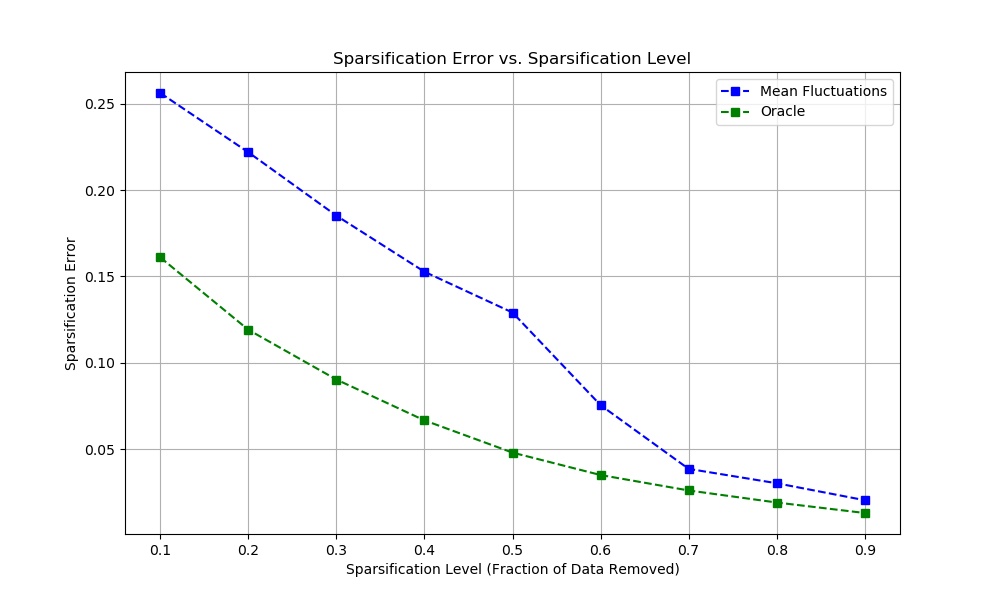
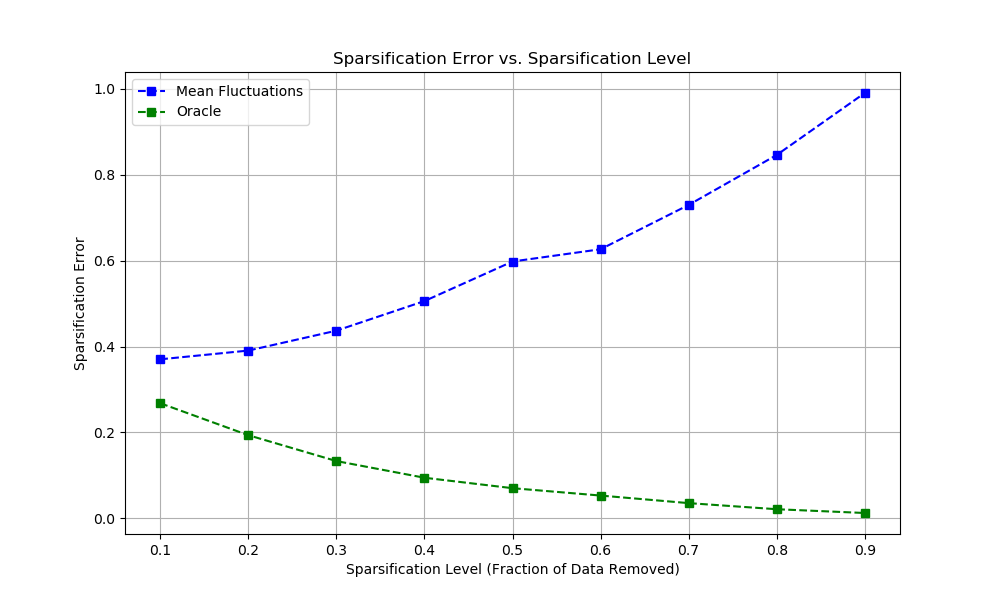
update uncertainty particle

diff --git a/eval/eval_ause.py b/eval/eval_ause.py
@@ -1,0 +1,277 @@
+# This code is based on https://github.com/openai/guided-diffusion
+"""
+Generate a large batch of image samples from a model and save them as a large
+numpy array. This can be used to produce samples for FID evaluation.
+"""
+from utils.fixseed import fixseed
+import os
+import numpy as np
+import torch
+from utils.parser_util import generate_args
+from utils.model_util import create_model_and_diffusion, load_model_wo_clip
+from utils import dist_util
+from model.cfg_sampler import ClassifierFreeSampleModel
+from data_loaders.get_data import get_dataset_loader, get_collate_fn
+from data_loaders.humanml.scripts.motion_process import recover_from_ric, compute_uncertainty_factor
+import data_loaders.humanml.utils.paramUtil as paramUtil
+from data_loaders.humanml.utils.plot_script import plot_3d_motion
+from data_loaders.humanml.utils.plot_script import plot_3d_motion_with_gt
+import shutil
+from data_loaders.tensors import collate
+from tqdm import tqdm
+from diffusion.losses import calculate_ause, discretized_gaussian_log_likelihood, calculate_ause2
+from diffusion.nn import mean_flat, sum_flat
+import matplotlib.pyplot as plt
+
+
+def main():
+    args = generate_args()
+    print(f'Args: %s' % args)
+    fixseed(args.seed)
+    args.learning_var = True
+    out_path = args.output_dir
+    name = os.path.basename(os.path.dirname(args.model_path))
+    niter = os.path.basename(args.model_path).replace('model', '').replace('.pt', '')
+    max_frames = 196 if args.dataset in ['kit', 'humanml'] else 60
+    fps = 12.5 if args.dataset == 'kit' else 20
+    n_frames = min(max_frames, int(args.motion_length*fps))
+    is_using_data = not any([args.input_text, args.text_prompt, args.action_file, args.action_name])
+    dist_util.setup_dist(args.device)
+    if out_path == '':
+        out_path = os.path.join(os.path.dirname(args.model_path),
+                                'samples_{}_{}_seed{}'.format(name, niter, args.seed))
+        if args.text_prompt != '':
+            out_path += '_' + args.text_prompt.replace(' ', '_').replace('.', '')
+        elif args.input_text != '':
+            out_path += '_' + os.path.basename(args.input_text).replace('.txt', '').replace(' ', '_').replace('.', '')
+
+    print('Loading dataset...')
+    data = get_dataset_loader(name=args.dataset,
+                              batch_size=args.batch_size,
+                              num_frames=max_frames,
+                              split='test',
+                            #   hml_mode='train') # in train mode, you get both text and motion.
+                              hml_mode='eval')  
+
+    total_samples = len(data.dataset)
+    # print(total_samples) #4646
+
+
+    # nb_samples_longer_than_three_seconds = 4328
+    nb_samples_longer_than_three_seconds = 4288
+    # nb_samples_longer_than_three_seconds = 320
+    start_index = total_samples - nb_samples_longer_than_three_seconds
+    subset_indices = list(range(start_index, total_samples))
+    subset_dataset = torch.utils.data.Subset(data.dataset, subset_indices)
+    subset_data_loader = torch.utils.data.DataLoader(subset_dataset, 
+                                                    batch_size=args.batch_size, 
+                                                    shuffle=False, 
+                                                    num_workers=8, 
+                                                    collate_fn=get_collate_fn(args.dataset, 'eval'))
+
+    total_batches = len(subset_data_loader.dataset)
+    print("Creating model and diffusion...")
+    model, diffusion = create_model_and_diffusion(args, data)
+
+    print(f"Loading checkpoints from [{args.model_path}]...")
+    state_dict = torch.load(args.model_path, map_location='cpu')
+    load_model_wo_clip(model, state_dict)
+
+    if args.guidance_param != 1:
+        model = ClassifierFreeSampleModel(model)   # wrapping model with the classifier-free sampler
+    model.to(dist_util.dev())
+    model.eval()  # disable random masking
+
+    all_motions = []
+    all_variances = []
+    all_mean_fluctuations = []
+    all_lengths = []
+    all_text = []
+    per_joint_errors_all = []
+    uncertainty_particle_ause_all = []
+
+    start_idx = args.emb_motion_len
+
+    times_ms = [0, 0.5, 1, 1.5, 2, 2.45, 2.95, 3.45, 3.95, 4.45, 4.95, 5.45, 5.95, 6.45, 6.95, 7.45, 7.95]  # in seconds
+    frame_indices = [int(20 * t) for t in times_ms] #[0, 10, 20, 30, 40, 49, 50, 60, 70, 80, 90, 100, 110, 120, 130, 140, 150, 160]
+    mpjpe_specific_times = [[] for _ in times_ms]  # List to store MPJPE at specific times
+
+    for idx, batch in enumerate(tqdm(subset_data_loader, desc="Sampling batches")):
+        # print(f'### Sampling from batch {idx}/{total_batches}')
+        input_motions, model_kwargs = batch
+        input_motions = input_motions.to(dist_util.dev())
+        # print(model_kwargs['y']['text'])
+        # raise SystemExit
+
+        ### For Motion Editing
+        # model_kwargs['y']['inpainted_motion'] = input_motions # [bs, njoints, 1, seqlen]
+        # model_kwargs['y']['inpainting_mask'] = torch.ones_like(input_motions, dtype=torch.bool,
+        #                                                         device=input_motions.device)  # True means use gt motion
+        # for i, length in enumerate(model_kwargs['y']['lengths'].cpu().numpy()):
+        #     model_kwargs['y']['inpainting_mask'][i, :, :, 50:] = False  # do inpainting in those frames
+        # ################################
+
+        # add CFG scale to batch
+        if args.guidance_param != 1:
+            model_kwargs['y']['scale'] = torch.ones(args.batch_size, device=dist_util.dev()) * args.guidance_param
+        model_kwargs['y']['motion_embed'] = input_motions
+        model_kwargs['y']['motion_embed_mask'] = torch.ones_like(input_motions, dtype=torch.bool, device=input_motions.device)
+        model_kwargs['y']['motion_embed_mask'][:, :, :, start_idx:] = False
+        sample_fn = diffusion.p_sample_loop
+
+        for rep_i in range(args.num_repetitions):
+            # print(f'### Sampling [repetitions #{rep_i}]')
+            if args.learning_var:
+                sample, log_variance, mean_fluctuations = sample_fn(
+                    model,
+                    (args.batch_size, model.njoints, model.nfeats, max_frames),
+                    clip_denoised=False,
+                    model_kwargs=model_kwargs,
+                    skip_timesteps=0,  # 0 is the default value - i.e. don't skip any step
+                    init_image=None,
+                    progress=False,
+                    dump_steps=None,
+                    noise=None,
+                    const_noise=False,
+                )
+            else:
+                sample = sample_fn(
+                    model,
+                    (args.batch_size, model.njoints, model.nfeats, max_frames),
+                    clip_denoised=False,
+                    model_kwargs=model_kwargs,
+                    skip_timesteps=0,  # 0 is the default value - i.e. don't skip any step
+                    init_image=None,
+                    progress=False,
+                    dump_steps=None,
+                    noise=None,
+                    const_noise=False,
+                )            
+
+            if model.data_rep == 'hml_vec':
+                n_joints = 22 if sample.shape[1] == 263 else 21 # sample.shape = [bs, 263, 1, 196]
+                sample = data.dataset.t2m_dataset.inv_transform(sample.cpu().permute(0, 2, 3, 1)).float() # [bs, 1, 196, 263]
+                sample = recover_from_ric(sample, n_joints) # [bs, 1, 196, 22, 3]
+                sample = sample.view(-1, *sample.shape[2:]).permute(0, 2, 3, 1) # [bs, 22, 3, 196]
+                if args.learning_var:
+                    log_variance = data.dataset.t2m_dataset.inv_transform(log_variance.cpu().permute(0, 2, 3, 1)).float() # [bs, 1, 196, 263]
+                    uncertainty_factor = compute_uncertainty_factor(log_variance, n_joints) # [bs, 22, 196]
+
+                mean_fluctuations = mean_fluctuations.cpu().permute(0, 2, 3, 1).float() # [bs, 1, 196, 263]
+                uncertainty_factor_1 = compute_uncertainty_factor(mean_fluctuations, n_joints) # [bs, 1, 196, 22]
+
+                input_motions_reshaped = data.dataset.t2m_dataset.inv_transform(input_motions.cpu().permute(0, 2, 3, 1)).float()
+                input_motions_reshaped = recover_from_ric(input_motions_reshaped, n_joints)
+                input_motions_reshaped = input_motions_reshaped.view(-1, *input_motions_reshaped.shape[2:]).permute(0, 2, 3, 1)
+
+            # Applying rot2xyz transformation
+            rot2xyz_pose_rep = 'xyz' if model.data_rep in ['xyz', 'hml_vec'] else model.data_rep
+            rot2xyz_mask = None if rot2xyz_pose_rep == 'xyz' else model_kwargs['y']['mask'].reshape(args.batch_size, n_frames).bool()
+            sample = model.rot2xyz(x=sample, mask=rot2xyz_mask, pose_rep=rot2xyz_pose_rep, glob=True, translation=True,
+                                jointstype='smpl', vertstrans=True, betas=None, beta=0, glob_rot=None,
+                                get_rotations_back=False) # [10, 22, 3, 196]
+
+            
+            input_motions_reshaped = model.rot2xyz(x=input_motions_reshaped, mask=rot2xyz_mask, pose_rep=rot2xyz_pose_rep, glob=True, translation=True,
+                                    jointstype='smpl', vertstrans=True, betas=None, beta=0, glob_rot=None,
+                                    get_rotations_back=False)
+            
+            valid_frame_mask = torch.zeros_like(input_motions_reshaped, dtype=torch.bool)
+
+            for i, length in enumerate(model_kwargs['y']['lengths'].cpu().numpy()):
+                valid_frame_mask[i, :, :, :length] = 1 # [64, 22, 3, 196]
+                sample[i, :, :, length:] = 0
+                input_motions_reshaped[i, :, :, length:] = 0
+
+            # Compute MPJPE
+            target_xyz_reshaped = input_motions_reshaped.permute(0, 3, 1, 2).reshape(args.batch_size, -1, 3) # torch.size([bs, 196*22, 3])
+            pred_xyz_reshaped = sample.permute(0, 3, 1, 2).reshape(args.batch_size, -1, 3) # torch.size([bs, 196*22, 3])
+            per_joint_errors = torch.norm(target_xyz_reshaped - pred_xyz_reshaped, 2, 2) # torch.Size([bs, 196*22])
+            per_joint_errors_all.append(per_joint_errors)
+
+
+            errors_reshaped = per_joint_errors.mean(dim=0) # Mean over batch #torch.Size([196*22])
+            overtime_3d_err = errors_reshaped.view(-1, n_joints).mean(dim=1) # torch.Size([196])
+
+            # Compute MPJPE at specific time frames
+            for t_idx, frame_idx in enumerate(frame_indices):
+                valid_mask_at_frame = valid_frame_mask[:, :, :, frame_idx+10].any(dim=1).any(dim=0) # +10 is added because there is variability in the lengths of sequences within the same batch, so we prefer not to consider the last 10 frames to avoid this irregularity
+                if valid_mask_at_frame.any().item():  
+                    mpjpe_at_time = overtime_3d_err[frame_idx]
+                    mpjpe_specific_times[t_idx].append(mpjpe_at_time.item())
+                    print(f'Batch {idx} - Repetition {rep_i} - Time {times_ms[t_idx]}s - MPJPE: {mpjpe_at_time*1000:.4f}')
+
+            # # Compute AUSE
+            # if args.learning_var:
+            #     uncertainty_factor_ause = uncertainty_factor.squeeze(1)
+            #     uncertainty_factor1_ause = uncertainty_factor_1.squeeze(1)
+            #     # sparsification_errors_lg, oracle, sparsification_levels_lg = calculate_ause(per_joint_errors, uncertainty_factor_ause, model_kwargs['y']['lengths'], 'sparsification_error_plot.png')
+            #     sparsification_errors_mf, oracle, sparsification_levels_mf = calculate_ause(per_joint_errors, uncertainty_factor1_ause, model_kwargs['y']['lengths'], 'sparsification_error_plot.png')
+            #     plt.figure(figsize=(10, 6))
+            #     # plt.plot(sparsification_levels_lg, sparsification_errors_lg, marker='o', linestyle='-', color='b', label='Log Variance')
+            #     plt.plot(sparsification_levels_mf, sparsification_errors_mf, marker='s', linestyle='--', color='b', label='Mean Fluctuations')
+            #     plt.plot(sparsification_levels_mf, oracle, marker='s', linestyle='--', color='g', label='Oracle')
+            #     plt.xlabel('Sparsification Level (Fraction of Data Removed)')
+            #     plt.ylabel('Sparsification Error')
+            #     plt.title('Sparsification Error vs. Sparsification Level')
+            #     plt.legend()
+            #     plt.grid(True)
+            #     plt.savefig('sparsification_error_plot1.png')
+            #     plt.close()
+            # exit()
+
+            if args.unconstrained:
+                all_text += ['unconstrained'] * args.num_samples
+            else:
+                text_key = 'text' if 'text' in model_kwargs['y'] else 'action_text'
+                all_text += model_kwargs['y'][text_key]
+
+            all_motions.append(sample.cpu().numpy())
+            all_lengths.append(model_kwargs['y']['lengths'].cpu().numpy())
+            if args.learning_var:
+                all_variances.append(uncertainty_factor.cpu().numpy())
+                all_mean_fluctuations.append(uncertainty_factor_1.cpu().numpy())
+        
+        all_motions_np = np.concatenate(all_motions, axis=0) # [batch_size*num_repetitions, njoints, 3, seqlen]
+        
+        # Compute uncertainty factor based on standard deviation between repetitions
+        all_motions_tensor = torch.from_numpy(all_motions_np)
+        uncertainty_particle = []
+        for sample_i in range(args.batch_size):
+            sample_motions = all_motions_tensor[sample_i::args.batch_size]
+            std_dev = torch.std(sample_motions, dim=0, keepdim=True)
+            std_dev = std_dev.repeat(args.num_repetitions, 1, 1, 1)  # [batch_size*num_repetitions, njoints, 3, seqlen]
+            uncertainty_particle.append(std_dev)
+        
+        # Compute AUSE for uncertainty_particle
+        uncertainty_particle = torch.stack(uncertainty_particle, dim=0)  # [batch_size, num_repetitions, njoints, 3, seqlen]
+        uncertainty_particle = uncertainty_particle.permute(1, 0, 2, 3, 4)  # [num_repetitions, batch_size, njoints, 3, seqlen]
+        uncertainty_particle = uncertainty_particle.reshape(-1, *uncertainty_particle.shape[2:])  # [batch_size*num_repetitions, njoints, 3, seqlen]
+        uncertainty_particle = uncertainty_particle.permute(0, 2, 3, 1)  # [batch_size*num_repetitions, 3, seqlen, njoints]
+
+        uncertainty_particle_ause = uncertainty_particle[0::args.num_repetitions] # [batch_size, 3, seqlen, njoints]
+        uncertainty_particle_ause = uncertainty_particle_ause.mean(dim=1) # [batch_size, seqlen, njoints]
+
+        uncertainty_particle_ause_all.append(uncertainty_particle_ause)
+    
+    uncertainty_particle_ause_all = torch.stack(uncertainty_particle_ause_all).view(-1, 196, n_joints) # [total_nb_batches*batch_size, seqlen, njoints]
+
+    per_joint_errors_all = torch.cat(per_joint_errors_all, dim=0)  # [batch_size*num_repetitions, 196*22]
+    per_joint_errors_all = per_joint_errors_all.view(args.num_repetitions, -1, 196*22)  # [num_repetitions, batch_size, 196*22]
+    per_joint_errors_mean = per_joint_errors_all.mean(dim=0)  # [batch_size, 196*22]
+
+    sparsification_errors_up, oracle, sparsification_levels_up = calculate_ause(per_joint_errors_mean, uncertainty_particle_ause_all, model_kwargs['y']['lengths'])
+    plt.figure(figsize=(10, 6))
+    plt.plot(sparsification_levels_up, sparsification_errors_up, marker='s', linestyle='--', color='b', label='Mean Fluctuations')
+    plt.plot(sparsification_levels_up, oracle, marker='s', linestyle='--', color='g', label='Oracle')
+    plt.xlabel('Sparsification Level (Fraction of Data Removed)')
+    plt.ylabel('Sparsification Error')
+    plt.title('Sparsification Error vs. Sparsification Level')
+    plt.legend()
+    plt.grid(True)
+    plt.savefig('sparsification_error_plot_uncertainty_particle2.png')
+    plt.close()
+
+if __name__ == "__main__":
+    main()
+

diff --git a/sample/generate_w_motion_input.py b/sample/generate_w_motion_input.py
@@ -160,7 +160,7 @@ def main():
         sample_fn = diffusion.p_sample_loop
 
         if args.learning_var:
-            sample, log_variance, mean_fluctuations= sample_fn(
+            sample, log_variance, mean_fluctuations = sample_fn(
                 model,
                 (args.batch_size, model.njoints, model.nfeats, max_frames),
                 clip_denoised=False,
@@ -189,15 +189,6 @@ def main():
         # print(input_motions.cpu().shape) # [10, 263, 1, 196]
         # print(sample.cpu().shape) # [10, 263, 1, 196]
         # print(log_variance.cpu().shape) # [10, 263, 1, 196]
-        
-        # Compute log-likelihood
-        if args.learning_var:
-            decoder_nll = -discretized_gaussian_log_likelihood(input_motions, means=sample, log_scales=0.5 * log_variance)
-            assert decoder_nll.shape == input_motions.shape
-            decoder_nll = mean_flat(decoder_nll) / np.log(2.0)
-            # print("decoder_nll shape:", decoder_nll.shape) # [10] -> one value per sample
-            decoder_nll_value = decoder_nll.mean()
-            print(f'Repetition {rep_i} - Decoder NLL: {decoder_nll_value:.4f}')
 
         if model.data_rep == 'hml_vec':
             n_joints = 22 if sample.shape[1] == 263 else 21 # sample.shape = [bs, 263, 1, 196]
@@ -277,10 +268,9 @@ def main():
         all_motions.append(sample.cpu().numpy())
         all_lengths.append(model_kwargs['y']['lengths'].cpu().numpy())
         if args.learning_var:
-            # all_variances.append(log_variance.cpu().numpy())
             all_variances.append(uncertainty_factor.cpu().numpy())
             all_mean_fluctuations.append(uncertainty_factor_1.cpu().numpy())
-        print(f"created {len(all_motions) * args.batch_size} samples")
+        # print(f"created {len(all_motions) * args.batch_size} samples")
 
     # mpjpe = sum(mean_errors) / len(mean_errors) if mean_errors else float('inf')
     # print(f'---> Overall MPJPE = {mpjpe*1000:.4f}')
@@ -291,7 +281,7 @@ def main():
             print(f'---> MPJPE at {time_ms} s = {avg_error*1000:.4f}')
     
     all_motions = np.concatenate(all_motions, axis=0) # [num_samples*num_repetitions, njoints, 3, seqlen]
-    all_motions = all_motions[:total_num_samples]  # [num_samples*num_repetitions, njoints, 3, seqlen]
+    # all_motions = all_motions[:total_num_samples]  # [num_samples*num_repetitions, njoints, 3, seqlen]
     
     # Compute uncertainty factor based on standard deviation between repetitions
     all_motions_tensor = torch.from_numpy(all_motions)
@@ -314,7 +304,7 @@ def main():
     if args.learning_var:
         uncertainty_particle_ause = uncertainty_particle[0::args.num_repetitions] # [num_samples, 3, seqlen, njoints]
         uncertainty_particle_ause = uncertainty_particle_ause.mean(dim=1) # [num_samples, seqlen, njoints]
-        sparsification_errors_up, oracle, sparsification_levels_up = calculate_ause(per_joint_errors_mean, uncertainty_particle_ause, model_kwargs['y']['lengths'], 'sparsification_error_plot.png')
+        sparsification_errors_up, oracle, sparsification_levels_up = calculate_ause(per_joint_errors_mean, uncertainty_particle_ause, model_kwargs['y']['lengths'])
         plt.figure(figsize=(10, 6))
         plt.plot(sparsification_levels_up, sparsification_errors_up, marker='s', linestyle='--', color='b', label='Mean Fluctuations')
         plt.plot(sparsification_levels_up, oracle, marker='s', linestyle='--', color='g', label='Oracle')

diff --git a/diffusion/gaussian_diffusion.py b/diffusion/gaussian_diffusion.py
@@ -17,7 +17,7 @@ from copy import deepcopy
 from diffusion.nn import mean_flat, sum_flat
 from diffusion.losses import normal_kl, discretized_gaussian_log_likelihood
 from data_loaders.humanml.scripts import motion_process
-from data_loaders.humanml.utils.uncertainty_factors import compute_relative_fluctuation, compute_fluctuation_duration, compute_mean_absolute_change, compute_max_change, compute_cumulative_variance
+from utils.uncertainty_factors import compute_relative_fluctuation, compute_fluctuation_duration, compute_mean_absolute_change, compute_max_change, compute_cumulative_variance
 
 def get_named_beta_schedule(schedule_name, num_diffusion_timesteps, scale_betas=1.):
     """

diff --git a/diffusion/losses.py b/diffusion/losses.py
@@ -8,7 +8,7 @@ https://github.com/hojonathanho/diffusion/blob/1e0dceb3b3495bbe19116a5e1b3596cd0
 import numpy as np
 import torch as th
 
-def calculate_ause(per_joint_errors, uncertainty_factor, lengths, output_path, n_bins=10):
+def calculate_ause(per_joint_errors, uncertainty_factor, lengths, n_bins=10):
     """
     Compute the Area Under Sparsification Error (AUSE) to assess the quality of the uncertainty factors.
 

diff --git a/README.md b/README.md
@@ -174,6 +174,11 @@ Download the model(s) you wish to use, then unzip and place them in `./save/`.
 python -m sample.generate --model_path ./save/humanml_trans_enc_512/model000200000.pt --num_samples 10 --num_repetitions 3
 ```
 
+```shell
+python -m sample.generate_w_motion_input --model_path ./save/multim_learnvar_motioninput50_50t_model3/model000600000.pt --num_samples 50 --num_repetitions 10
+```
+to add zones of presence with varying confidence levels: --learning_var True
+
 ### Generate from your text file
 
 ```shell
@@ -337,6 +342,11 @@ python -m train.train_mdm --save_dir save/my_name --dataset humanact12 --cond_ma
 * Add `--learning_var=True` to learn the variance during the diffusion denoising process
 
 ## Evaluate
+
+**MPJPE**
+```shell
+python -m eval.eval_humanml --model_path ./save/humanml_trans_enc_512/model000475000.pt
+```
 
 <details>
   <summary><b>Text to Motion</b></summary>
